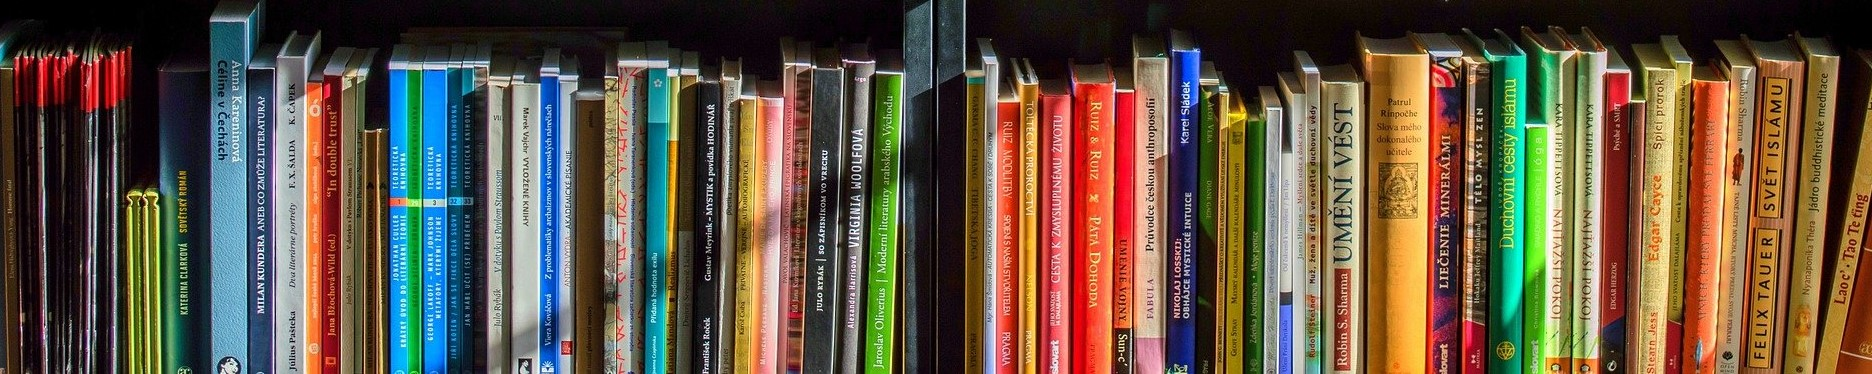
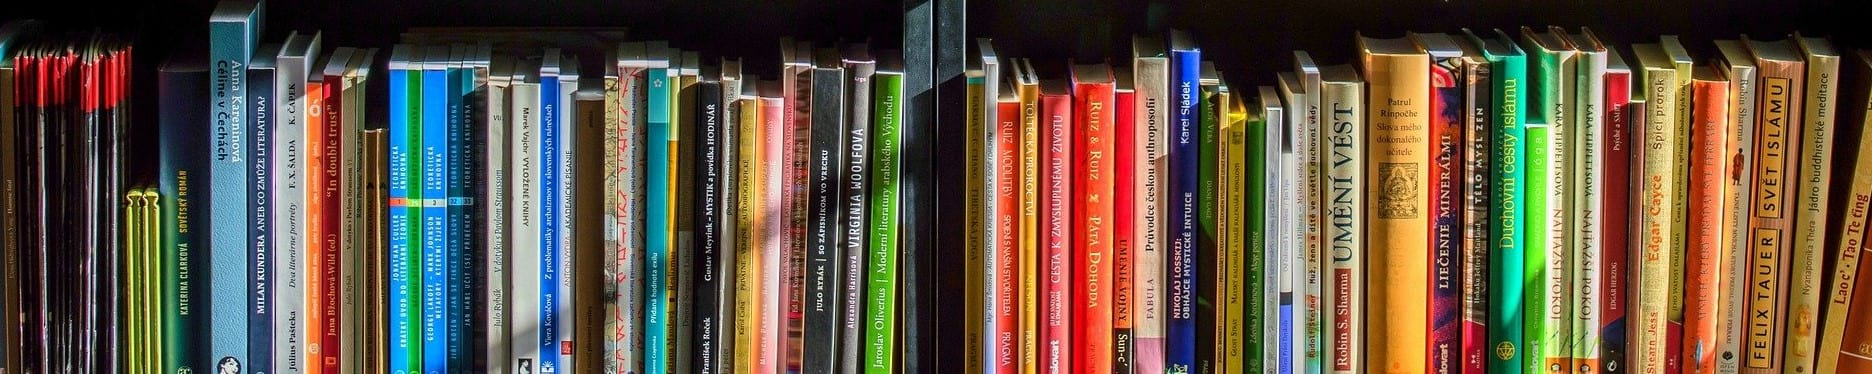
Optimised images so the load faster

diff --git a/templates/components/cards/card_book.html b/templates/components/cards/card_book.html
@@ -3,7 +3,7 @@
         <div class="card-title">
             {% set button='book' %}
             {% include 'components/buttons_general/button_buy.html' %}
-            <h5>{{ book.title }}</h5>
+            <h5>{{ book.title }}</h5><br>
         </div>
         <img src="{{ book.image }}" alt="Book cover: {{ book.image }} ">
         <ul class="book_list card-text">

diff --git a/README.md b/README.md
@@ -270,7 +270,8 @@ In this section, you should mention all of the languages, frameworks, libraries,
 - Favicon
     - to generate Favicon
     - [https://favicon.io/](https://favicon.io/)
-    
+- [Image Optim](https://imageoptim.com/api)
+    - To optimize images to load faster.    
 
 ## Testing
 "All tests passed without major issues?"
